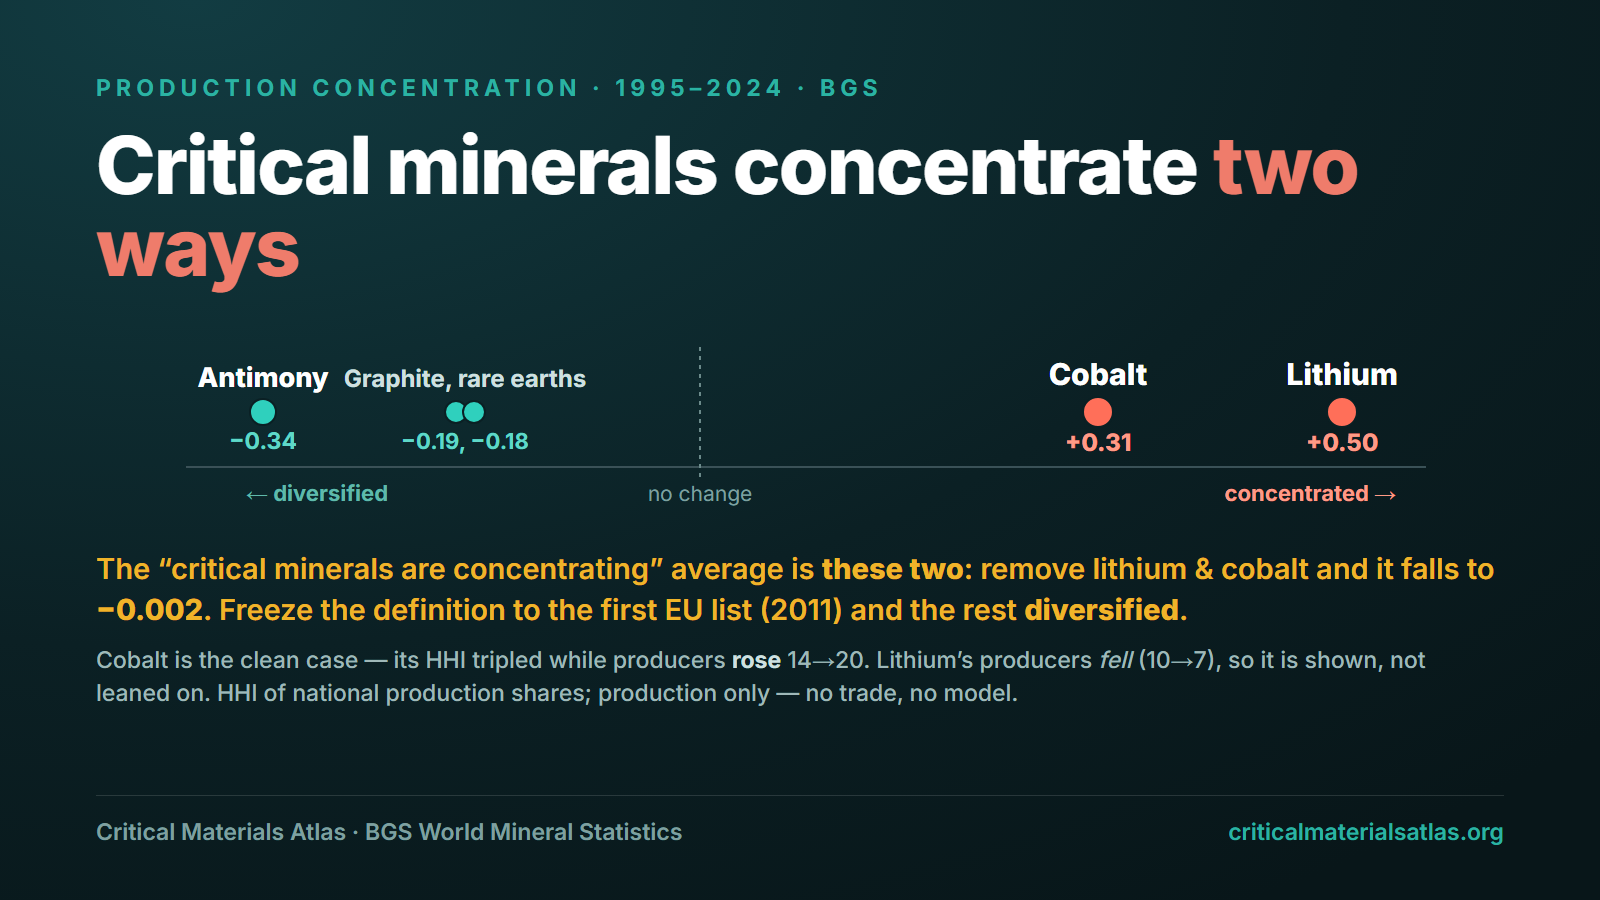
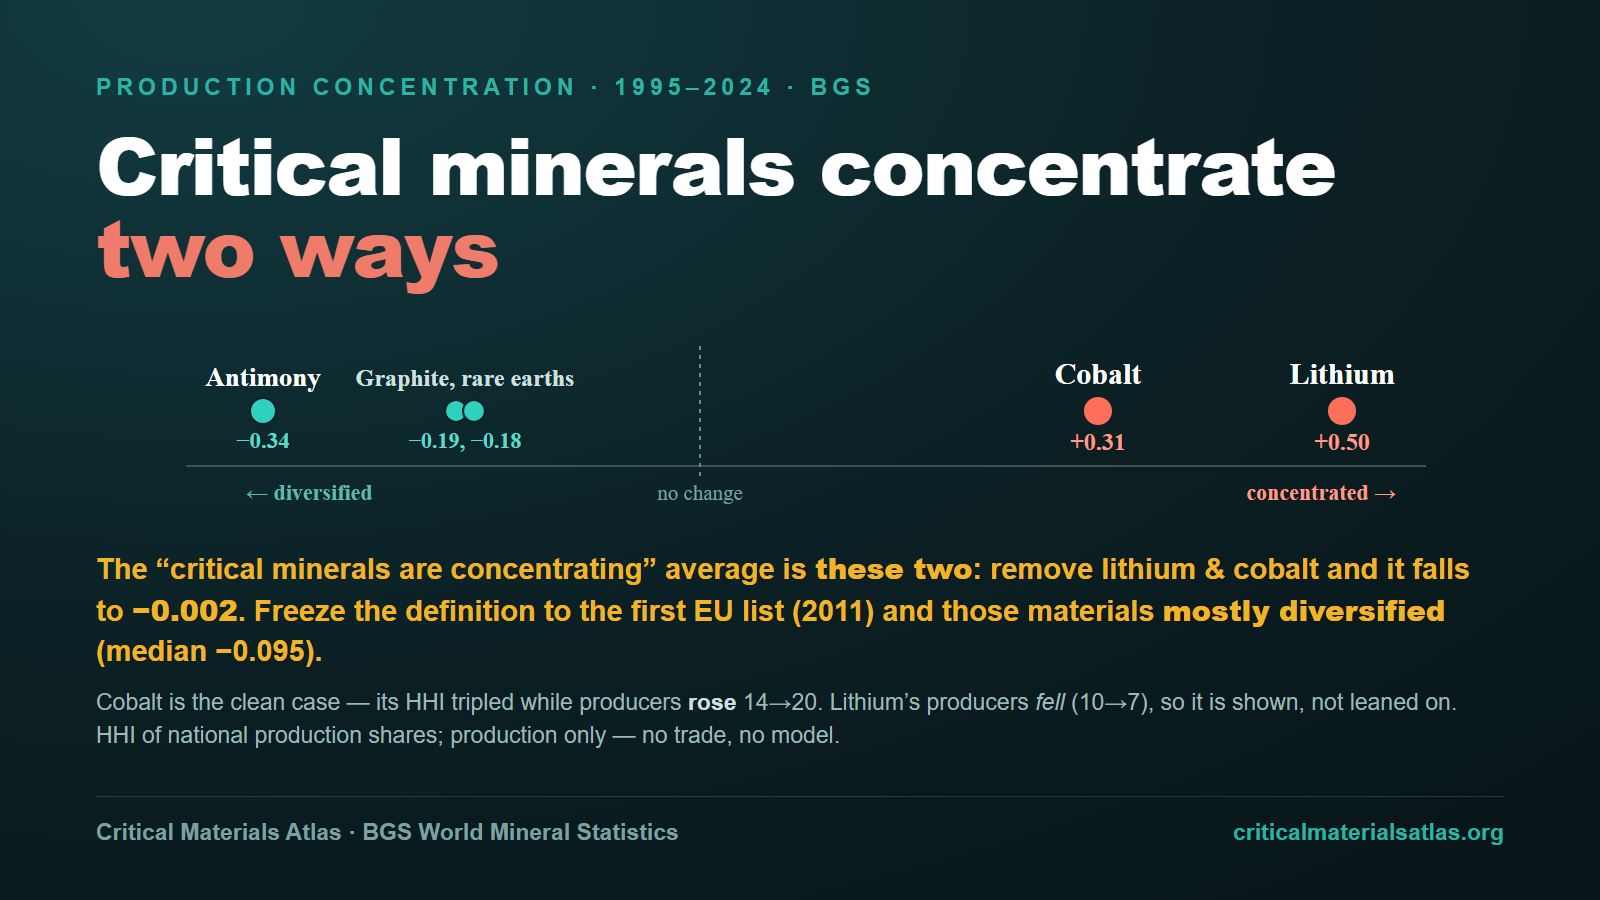
Concentration: adjudicate the grok cross-check - iron ore in, cobalt cause named
Independent delegate pass (grok) adjudicated point by point:
- SUSTAINED: iron ore is a valid comparable non-critical we had missed.
  Computed: HHI 0.131->0.212 (+0.080) on broad coverage (45->48 reporters)
  - it CONCENTRATED (Australia-Brazil seaborne consolidation). Added to
  the comparable set (now 4: split 2 up / 2 down, median -0.006), and the
  control section reframed honestly: the comparable non-criticals show no
  class trend either, which IS the page's thesis. The 4th comparator's
  adversarial provenance is stated on the page.
- SUSTAINED: cobalt's mechanism named - the baseline decade coincides with
  Congo's wartime collapse; the rise is DRC's return/expansion to ~70% of
  mine supply. Cause explained, measurement unchanged.
- SUSTAINED (partial): mine-vs-midstream now carries the live example
  (graphite/RE mining diversified while processing stayed in China).
- REJECTED: copper/nickel/phosphate as "non-critical comparators" - all
  are on critical lists. Median-vs-mean "moment switching" - the page
  states both moments and the freeze result against itself.
- Card: "the rest diversified" -> "mostly diversified (median -0.095)"
  (cobalt/fluorspar/tungsten are 2011-listed and rose).

diff --git a/concentration.html b/concentration.html
@@ -72,7 +72,7 @@
   <h2>The whole distribution, one dot per material</h2>
   <p class="striplab">Each material&rsquo;s change in production HHI, 1995&ndash;2004 &rarr; 2015&ndash;2024, on one axis (0 = many equal producers, 1 = a single producer). This is the most honest object on the page: it shows the two outliers doing the work instead of hiding them inside an average. The vertical tick is each group&rsquo;s <b>median</b>.</p>
   <div class="strip"><svg id="strip" viewBox="0 0 920 240" role="img" aria-label="Dot strip of HHI change by material"></svg></div>
-  <div class="leg"><span><i style="background:#b3123a"></i> critical material</span><span><i style="background:#0e7c5a"></i> comparable control (Au/Ag/potash)</span><span><i style="background:#9aa6ad"></i> other ordinary mineral (transport-sited)</span><span style="color:var(--mut)">▏ = median (all 23 criticals; the 3 comparable controls)</span></div>
+  <div class="leg"><span><i style="background:#b3123a"></i> critical material</span><span><i style="background:#0e7c5a"></i> comparable control (Au/Ag/potash/iron&nbsp;ore)</span><span><i style="background:#9aa6ad"></i> other ordinary mineral (transport-sited)</span><span style="color:var(--mut)">▏ = median (all 23 criticals; the 4 comparable controls)</span></div>
 
   <h2>The concentration average is two materials</h2>
   <p style="max-width:80ch">The number that gets repeated is a group mean, and it says critical-material production grew more concentrated by +0.034. It is true, and it is misleading: two materials sit at the far edge of the distribution and carry the whole thing. Lithium&rsquo;s HHI more than tripled (0.21&nbsp;&rarr;&nbsp;0.71) and cobalt&rsquo;s tripled too (0.14&nbsp;&rarr;&nbsp;0.45). Remove those two and the average of the other 21 is <b>essentially zero</b> (&minus;0.002).</p>
@@ -95,7 +95,7 @@
   <p style="max-width:80ch">The materials critical <i>before</i> the window mostly <b>diversified</b> &mdash; antimony, graphite and rare earths came off near-monopoly highs, and PGMs eased from a lower base. So &ldquo;critical minerals are concentrating&rdquo; as a class statement is substantially an artifact of list expansion. What is left once selection is controlled for is not a class trend at all &mdash; it is the divergence: one material on that 2011 list, <b>cobalt</b>, concentrated hard, and it is the cleanest signal in the dataset.</p>
 
   <h2>The clean case, and the caveated one</h2>
-  <p style="max-width:80ch"><b>Cobalt is the finding you can lean on.</b> It was defined critical in 2011, before any of this; its production HHI tripled (0.14&nbsp;&rarr;&nbsp;0.45); and its reporting producers <i>rose</i> from 14 to 20 &mdash; so the concentration is real, not an artifact of fewer countries reporting. <b>Lithium is the one to be careful with.</b> Its HHI rose more still (0.21&nbsp;&rarr;&nbsp;0.71), but it was listed only in 2020 (so selection bites), and its reporting producers <i>fell</i> from 10 to 7 &mdash; the one big mover where thinner reporting inflates the index. It belongs in the picture, labelled, not leaned on.</p>
+  <p style="max-width:80ch"><b>Cobalt is the finding you can lean on.</b> It was defined critical in 2011, before any of this; its production HHI tripled (0.14&nbsp;&rarr;&nbsp;0.45); and its reporting producers <i>rose</i> from 14 to 20 &mdash; so the concentration is real, not an artifact of fewer countries reporting. The mechanism is no mystery either: the baseline decade coincides with the collapse of Congo&rsquo;s state producer during the 1996&ndash;2003 wars, and the rise since is Congo&rsquo;s return and expansion to roughly 70% of world mine supply. Naming the cause does not soften the measurement &mdash; it explains it. <b>Lithium is the one to be careful with.</b> Its HHI rose more still (0.21&nbsp;&rarr;&nbsp;0.71), but it was listed only in 2020 (so selection bites), and its reporting producers <i>fell</i> from 10 to 7 &mdash; the one big mover where thinner reporting inflates the index. It belongs in the picture, labelled, not leaned on.</p>
 
   <div class="panel">
     <h3>Every critical material, ranked <span class="tag">production HHI change, 1995&ndash;2004 &rarr; 2015&ndash;2024</span></h3>
@@ -104,13 +104,13 @@
   <div class="leg"><span><i style="background:#b3123a;border-radius:3px"></i> grew more concentrated</span><span><i style="background:#0e7c5a;border-radius:3px"></i> diversified</span><span style="color:var(--mut)"><span class="dg" style="color:var(--faint)">&dagger;</span> thin coverage (&lt;8 producers)</span></div>
 
   <h2>Does a control group help? A little, and it shows its own limit</h2>
-  <p style="max-width:80ch">The divergence above needs no control &mdash; each material is compared to its own past. But it is fair to ask whether ordinary commodities behaved differently. Most don&rsquo;t make a clean comparison: bulky, low-value minerals (gypsum, salt, aggregates, talc) deconcentrate because they are produced next to where they are used &mdash; transport economics, not a counterfactual. The genuinely comparable non-critical commodities are the globally-traded, geology-sited ones. There are only three &mdash; and that scarcity is itself the point, because being scarce and concentrated is much of what gets a material <i>called</i> critical:</p>
+  <p style="max-width:80ch">The divergence above needs no control &mdash; each material is compared to its own past. But it is fair to ask whether ordinary commodities behaved differently. Most don&rsquo;t make a clean comparison: bulky, low-value minerals (gypsum, salt, aggregates, talc) deconcentrate because they are produced next to where they are used &mdash; transport economics, not a counterfactual. The genuinely comparable non-critical commodities are the globally-traded, geology-sited ones. We first drew that set as three &mdash; gold, silver, potash &mdash; and an adversarial pass added a fourth we had missed: iron ore. Four is a check, not a control group, so each is shown by name:</p>
   <div class="panel"><div class="chart" id="chart-cmp"></div></div>
-  <p style="max-width:80ch">Two of the three &mdash; gold and potash &mdash; spread out; silver ticked up a trivial +0.02. None concentrated the way cobalt did. It is a three-observation check, not a control group, and it is shown as three named materials for exactly that reason.</p>
+  <p style="max-width:80ch">And they split. <b>Iron ore concentrated</b> (+0.08 on broad coverage &mdash; the Australia&ndash;Brazil consolidation of the seaborne market); silver barely moved; gold and potash spread out. So the comparable non-criticals show no class trend either &mdash; which is this page&rsquo;s point. &ldquo;Critical vs ordinary&rdquo; is not the axis that explains concentration; the mechanism inside each market is.</p>
 
   <div class="callout"><b>The coverage question, stated correctly.</b> Concentration indices can rise simply because fewer countries report. Reporter counts actually <i>rose</i> in most of these series &mdash; but a group average of reporter counts does not clear a nonlinear, per-material index, so it is checked per material. The one place it bites is lithium (10&nbsp;&rarr;&nbsp;7), which is why lithium is shown as an individual dot and not leaned on. Cobalt &mdash; the case the page rests on &mdash; goes the clean way: 14&nbsp;&rarr;&nbsp;20 producers <i>and</i> a tripling HHI.</div>
 
-  <div class="callout"><b>What this rests on, and what it doesn&rsquo;t.</b> Concentration is measured on <b>mine/primary production tonnages</b> from the <a href="https://www2.bgs.ac.uk/mineralsuk/statistics/wms.cfc?method=searchWMS">BGS World Mineral Statistics</a> panel &mdash; one consistent source across every material, computed only for years with at least five reporting producers. Like every BGS figure on this site, these are shares of the countries that <i>report</i> &mdash; which is why reporter counts are checked per material, thin series carry a &dagger;, and the one material whose count fell while its index rose (lithium) is shown, not leaned on. It uses <b>no trade data, no apparent-consumption estimate, and no model</b>, so it is independent of everything still open in the atlas&rsquo;s consumption layer. It measures where material is <i>produced</i>, not refined or consumed &mdash; a material can have diversified mines and a concentrated midstream (that is the <a href="chokepoint-map">chokepoint</a> question, and a different measurement). The level of concentration (criticals sit higher than ordinary minerals) is partly definitional and is deliberately not the claim here; the <i>change</i> is.</div>
+  <div class="callout"><b>What this rests on, and what it doesn&rsquo;t.</b> Concentration is measured on <b>mine/primary production tonnages</b> from the <a href="https://www2.bgs.ac.uk/mineralsuk/statistics/wms.cfc?method=searchWMS">BGS World Mineral Statistics</a> panel &mdash; one consistent source across every material, computed only for years with at least five reporting producers. Like every BGS figure on this site, these are shares of the countries that <i>report</i> &mdash; which is why reporter counts are checked per material, thin series carry a &dagger;, and the one material whose count fell while its index rose (lithium) is shown, not leaned on. It uses <b>no trade data, no apparent-consumption estimate, and no model</b>, so it is independent of everything still open in the atlas&rsquo;s consumption layer. It measures where material is <i>produced</i>, not refined or consumed &mdash; a material can have diversified mines and a concentrated midstream &mdash; graphite and rare earths are the live cases: their <i>mining</i> diversified in this data while their <i>processing</i> stayed concentrated in China (that is the <a href="chokepoint-map">chokepoint</a> question, and a different measurement). The level of concentration (criticals sit higher than ordinary minerals) is partly definitional and is deliberately not the claim here; the <i>change</i> is.</div>
 
   <div class="ftr"><a href="chokepoint-map">Where the real chokepoints sit</a> · <a href="n1">Can the rest cope without the leader?</a> · <a href="analysis">All analysis</a></div>
 </article>
@@ -131,13 +131,13 @@ var CRIT=[
  {n:"Titanium",c:-.004},{n:"Copper",c:-.031,h:"copper-chain/copper-chain.html"},{n:"Tin",c:-.044},{n:"Barytes",c:-.077},
  {n:"Platinum-group metals",c:-.095,thin:1,e11:1},{n:"Rare earths",c:-.182,thin:1,e11:1,h:"rare-earths-chain/rare-earths-chain.html"},
  {n:"Graphite",c:-.190,e11:1,h:"graphite-chain/graphite-chain.html"},{n:"Antimony",c:-.344,e11:1}];
-var CMP=[{n:"Silver",c:.024},{n:"Gold",c:-.037},{n:"Potash",c:-.151,thin:1}];
+var CMP=[{n:"Iron ore",c:.080},{n:"Silver",c:.024},{n:"Gold",c:-.037},{n:"Potash",c:-.151,thin:1}];
 // full 13-material control (for the dot strip's lower lane): comparable ones flagged cmp
 var CTRL=[
- {n:"Perlite",c:.040},{n:"Silver",c:.024,cmp:1},{n:"Salt",c:.015},{n:"Mica",c:-.017},{n:"Bentonite",c:-.018},
+ {n:"Iron ore",c:.080,cmp:1},{n:"Perlite",c:.040},{n:"Silver",c:.024,cmp:1},{n:"Salt",c:.015},{n:"Mica",c:-.017},{n:"Bentonite",c:-.018},
  {n:"Aggregates",c:-.022},{n:"Gypsum",c:-.026},{n:"Diatomite",c:-.026},{n:"Gold",c:-.037,cmp:1},{n:"Talc",c:-.043},
  {n:"Vermiculite",c:-.104},{n:"Kaolin",c:-.109},{n:"Potash",c:-.151,cmp:1,thin:1}];
-var MED={crit:.046,ctrlCmp:-.037};
+var MED={crit:.046,ctrlCmp:-.006};
 
 /* ---- dot strip ---- */
 (function(){
@@ -152,7 +152,7 @@ var MED={crit:.046,ctrlCmp:-.037};
  s+='<line x1="'+X(0)+'" y1="30" x2="'+X(0)+'" y2="205" stroke="#9aa6ad" stroke-width="1" stroke-dasharray="3 3"/>';
  s+='<text x="'+X(0)+'" y="24" font-size="11" fill="#667179" text-anchor="middle" font-family="Inter,sans-serif">no change</text>';
  s+='<text x="'+L+'" y="52" font-size="12.5" font-weight="700" fill="#15323a" font-family="Inter,sans-serif">Critical materials (23)</text>';
- s+='<text x="'+L+'" y="144" font-size="12.5" font-weight="700" fill="#15323a" font-family="Inter,sans-serif">Ordinary minerals (13)</text>';
+ s+='<text x="'+L+'" y="144" font-size="12.5" font-weight="700" fill="#15323a" font-family="Inter,sans-serif">Ordinary minerals (14)</text>';
  function dots(rows,lane,mode){
    rows.forEach(function(r,i){var cx=X(r.c),cy=lane+jit[i%jit.length];
      var col=mode==='ctrl'?(r.cmp?'#0e7c5a':'#9aa6ad'):'#b3123a';
@@ -164,7 +164,7 @@ var MED={crit:.046,ctrlCmp:-.037};
  dots(CRIT,laneC,'crit'); dots(CTRL,laneT,'ctrl');
  function med(v,lane,col,lbl){s+='<line x1="'+X(v)+'" y1="'+(lane-40)+'" x2="'+X(v)+'" y2="'+(lane+40)+'" stroke="'+col+'" stroke-width="2.5"/>'+
    '<text x="'+X(v)+'" y="'+(lane-46)+'" font-size="11" font-weight="700" fill="'+col+'" text-anchor="middle" font-family="Inter,sans-serif">'+lbl+' '+(v>0?'+':'')+v.toFixed(3)+'</text>';}
- med(MED.crit,laneC,'#15323a','median'); med(MED.ctrlCmp,laneT,'#0e7c5a','Au/Ag/potash median');
+ med(MED.crit,laneC,'#15323a','median'); med(MED.ctrlCmp,laneT,'#0e7c5a','comparable median');
  document.getElementById('strip').innerHTML=s;
 })();
 

diff --git a/share/card-concentration.html b/share/card-concentration.html
@@ -37,7 +37,7 @@
   <text x="1246" y="68" font-size="30" font-weight="800" fill="#fff" text-anchor="middle" font-family="Inter">Lithium</text>
   <text x="1246" y="134" font-size="24" font-weight="800" fill="#ff9a86" text-anchor="middle" font-family="Inter">+0.50</text>
  </svg></div>
- <div class="exc">The &ldquo;critical minerals are concentrating&rdquo; average is <b>these two</b>: remove lithium &amp; cobalt and it falls to <b>&minus;0.002</b>. Freeze the definition to the first EU list (2011) and the rest <b>diversified</b>.</div>
+ <div class="exc">The &ldquo;critical minerals are concentrating&rdquo; average is <b>these two</b>: remove lithium &amp; cobalt and it falls to <b>&minus;0.002</b>. Freeze the definition to the first EU list (2011) and those materials <b>mostly diversified</b> (median &minus;0.095).</div>
  <div class="cov">Cobalt is the clean case &mdash; its HHI tripled while producers <b>rose</b> 14&rarr;20. Lithium&rsquo;s producers <i>fell</i> (10&rarr;7), so it is shown, not leaned on. HHI of national production shares; production only &mdash; no trade, no model.</div>
  <div class="spacer"></div>
  <div class="foot"><span>Critical Materials Atlas · BGS World Mineral Statistics</span><span class="u">criticalmaterialsatlas.org</span></div>

diff --git a/build_bgs_concentration.py b/build_bgs_concentration.py
@@ -17,12 +17,16 @@ TRANSITION={'lithium','cobalt','nickel','graphite','rare_earths','copper','plati
 # -> circular); diamond (cartel/structurally concentrated, behaves like a critical); asbestos (progressive
 # bans collapsed the producer set -> policy shock, not market structure); wollastonite/nepheline/sillimanite/
 # iodine/bromine (thin, geologically concentrated -> diamond-like noise).
-CONTROL=['salt','silver','gypsum','gold','kaolin','talc','potash','diatomite',
+CONTROL=['salt','silver','gypsum','gold','kaolin','talc','potash','diatomite','iron_and_steel:iron ore',
  'aggregates_and_related_materials','mica','perlite','vermiculite','bentonite_and_fuller_s_earth']
 def series(m):
-    fn=f'{P}/{m}.json'
+    # 'group:commodity' selects one bgs commodity inside a group file (iron ore sits in iron_and_steel
+    # beside crude steel and pig iron, which would win the dominant-form pick)
+    fn=f"{P}/{m.split(':')[0]}.json"
     if not os.path.exists(fn): return None,None
     d=json.load(open(fn)); prod=[r for r in d if r['bgs_statistic_type_trans']=='Production' and r['quantity'] and r['quantity']>0 and r['country_iso3_code']]
+    if ':' in m:
+        want=m.split(':',1)[1]; prod=[r for r in prod if (r['bgs_commodity_trans'] or '')==want]
     if not prod: return None,None
     form=Counter(r['erml_commodity'] for r in prod).most_common(1)[0][0]; prod=[r for r in prod if r['erml_commodity']==form]
     unit=Counter(r['units'] for r in prod).most_common(1)[0][0]; prod=[r for r in prod if r['units']==unit]
@@ -48,7 +52,7 @@ def analyze(names):
 # resource is, not next to the point of use). The rest of CONTROL are transport-limited industrial minerals
 # (gypsum/salt/aggregates/talc/perlite/kaolin/bentonite...) that deconcentrate for logistics reasons, not as
 # a clean counterfactual. So the comparable subset is the real control; the wider set is context.
-COMPARABLE={'gold','silver','potash'}
+COMPARABLE={'gold','silver','potash','iron_and_steel:iron ore'}  # iron ore added by adversarial pass - and it CONCENTRATED (+0.08)
 EXTREMES={'lithium','cobalt'}  # the two materials that carry the critical MEAN (leave-one-out test)
 # Ex-ante freeze: the EU's FIRST critical-raw-materials list (2011), the only single vintage that sits at the
 # end of our baseline decade rather than inside the change window. If a material was critical in 2011, its
